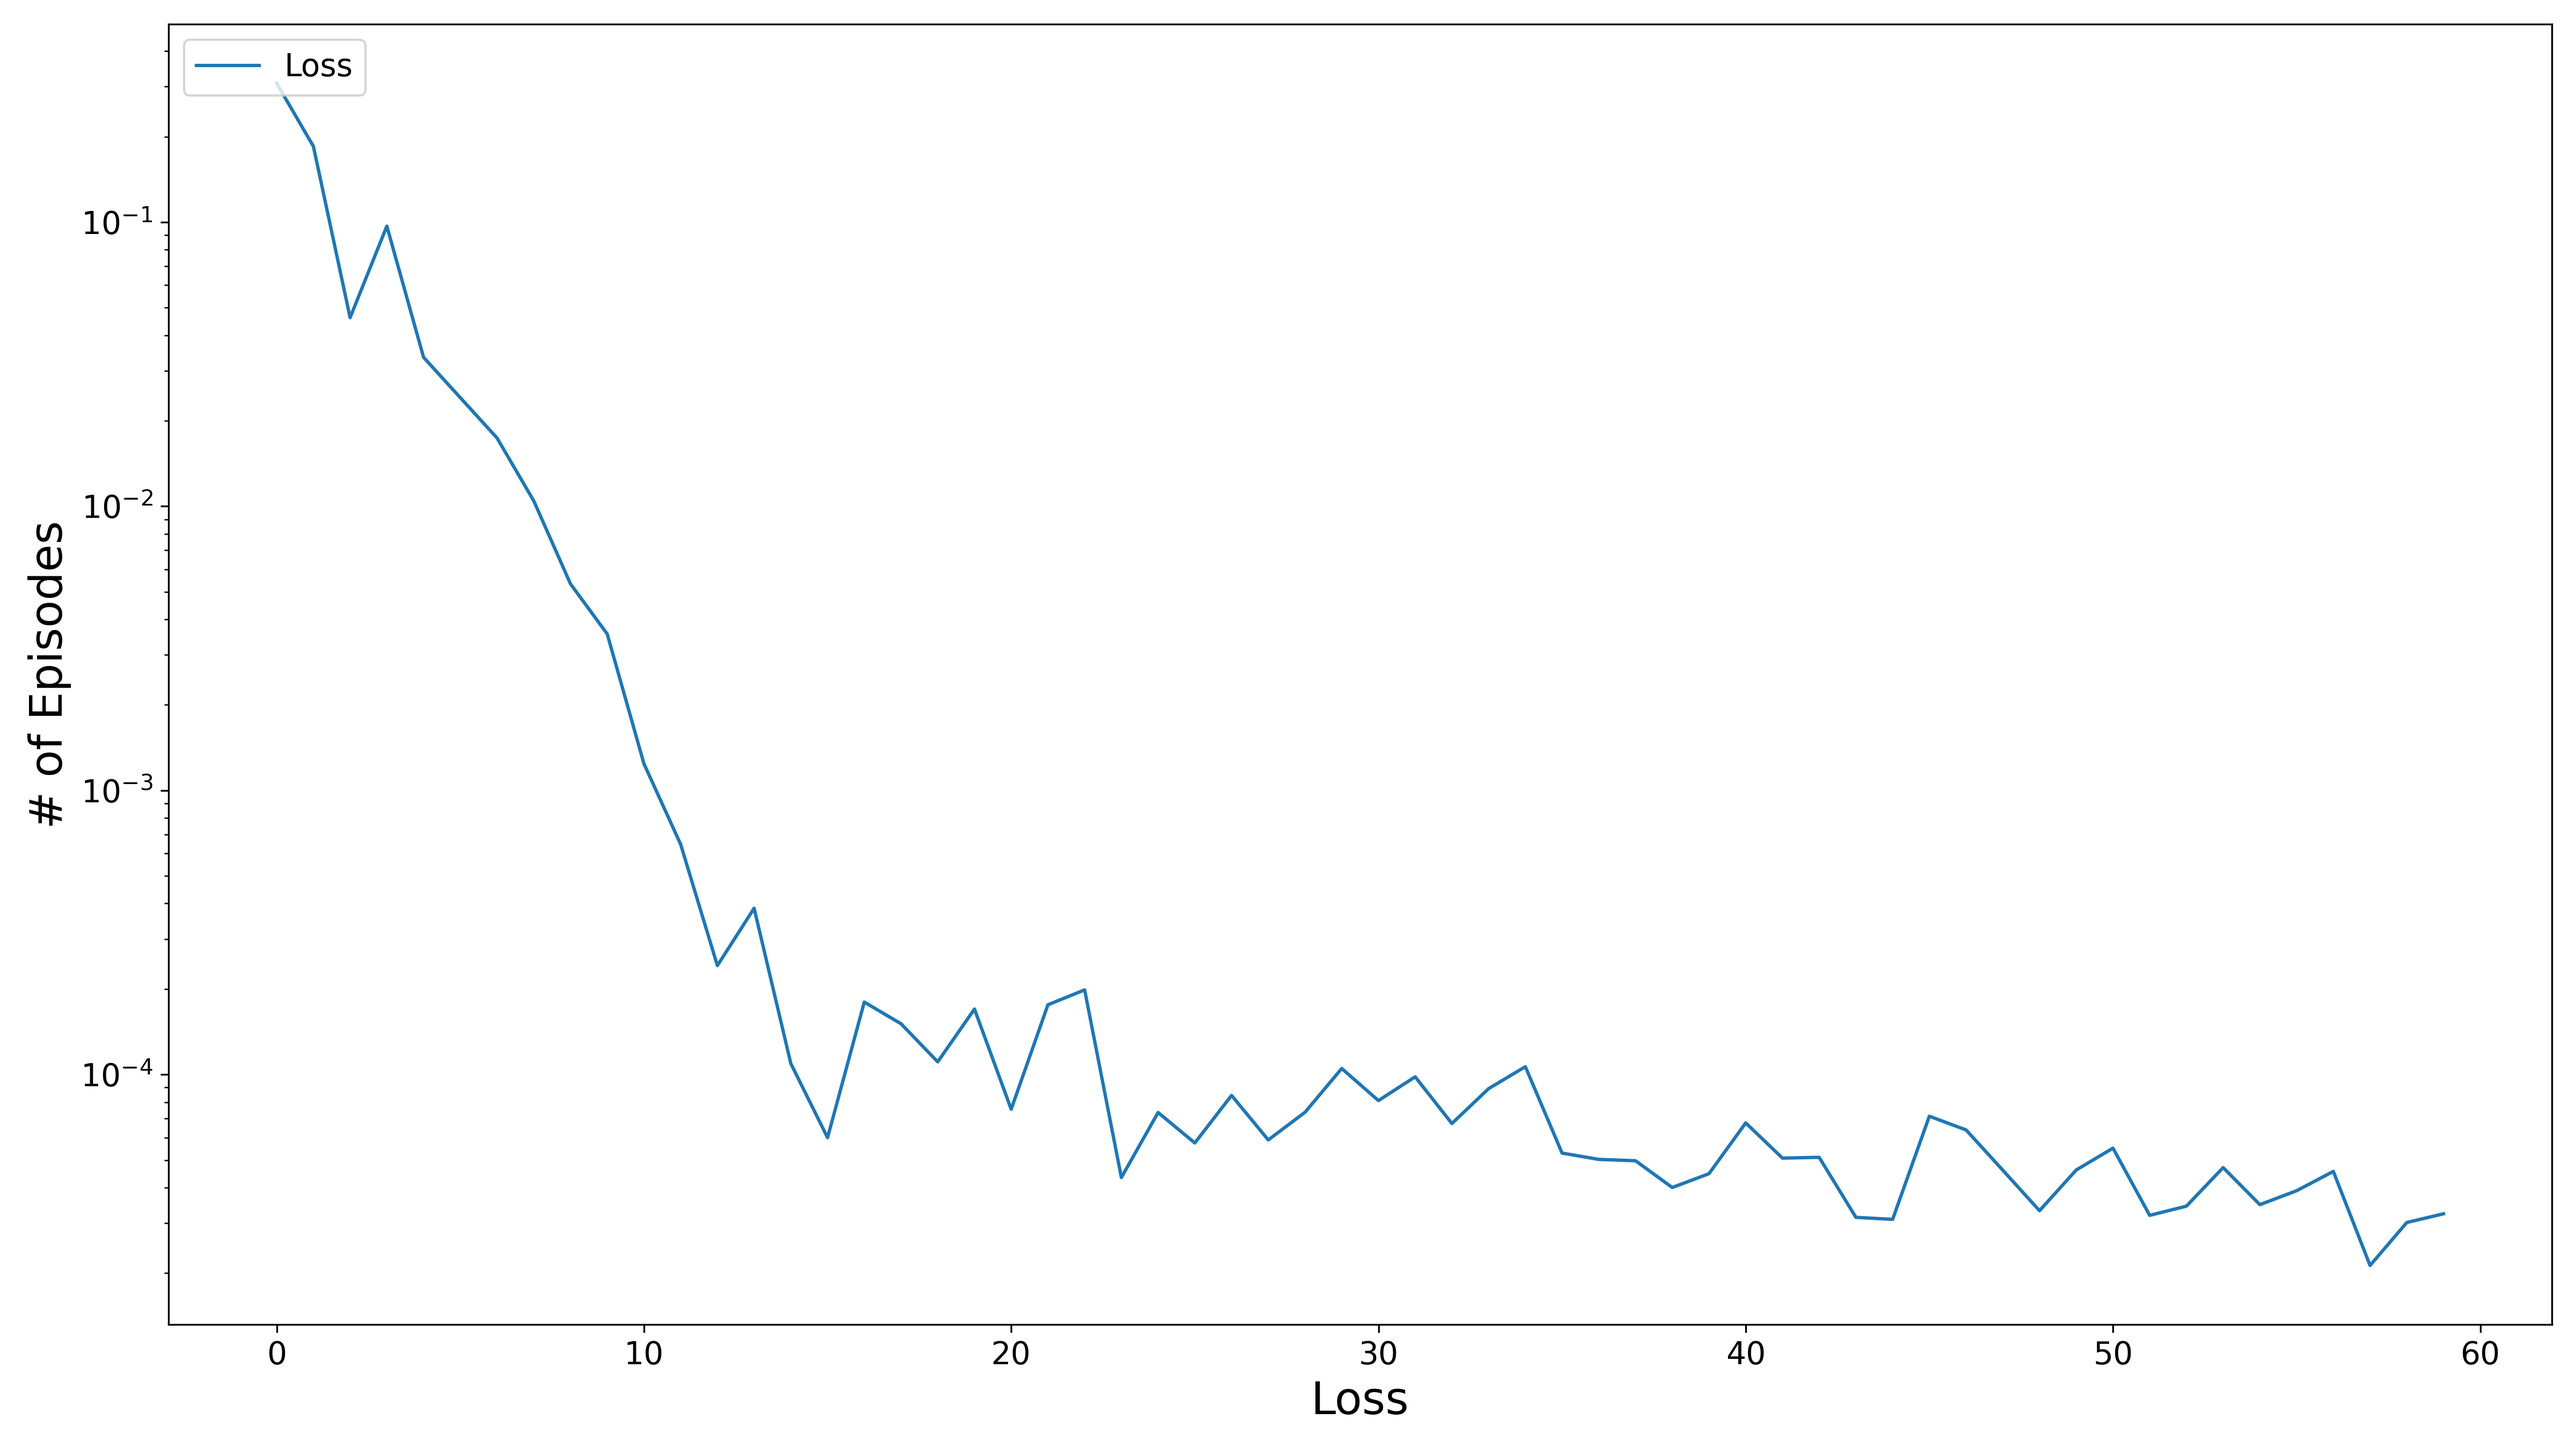
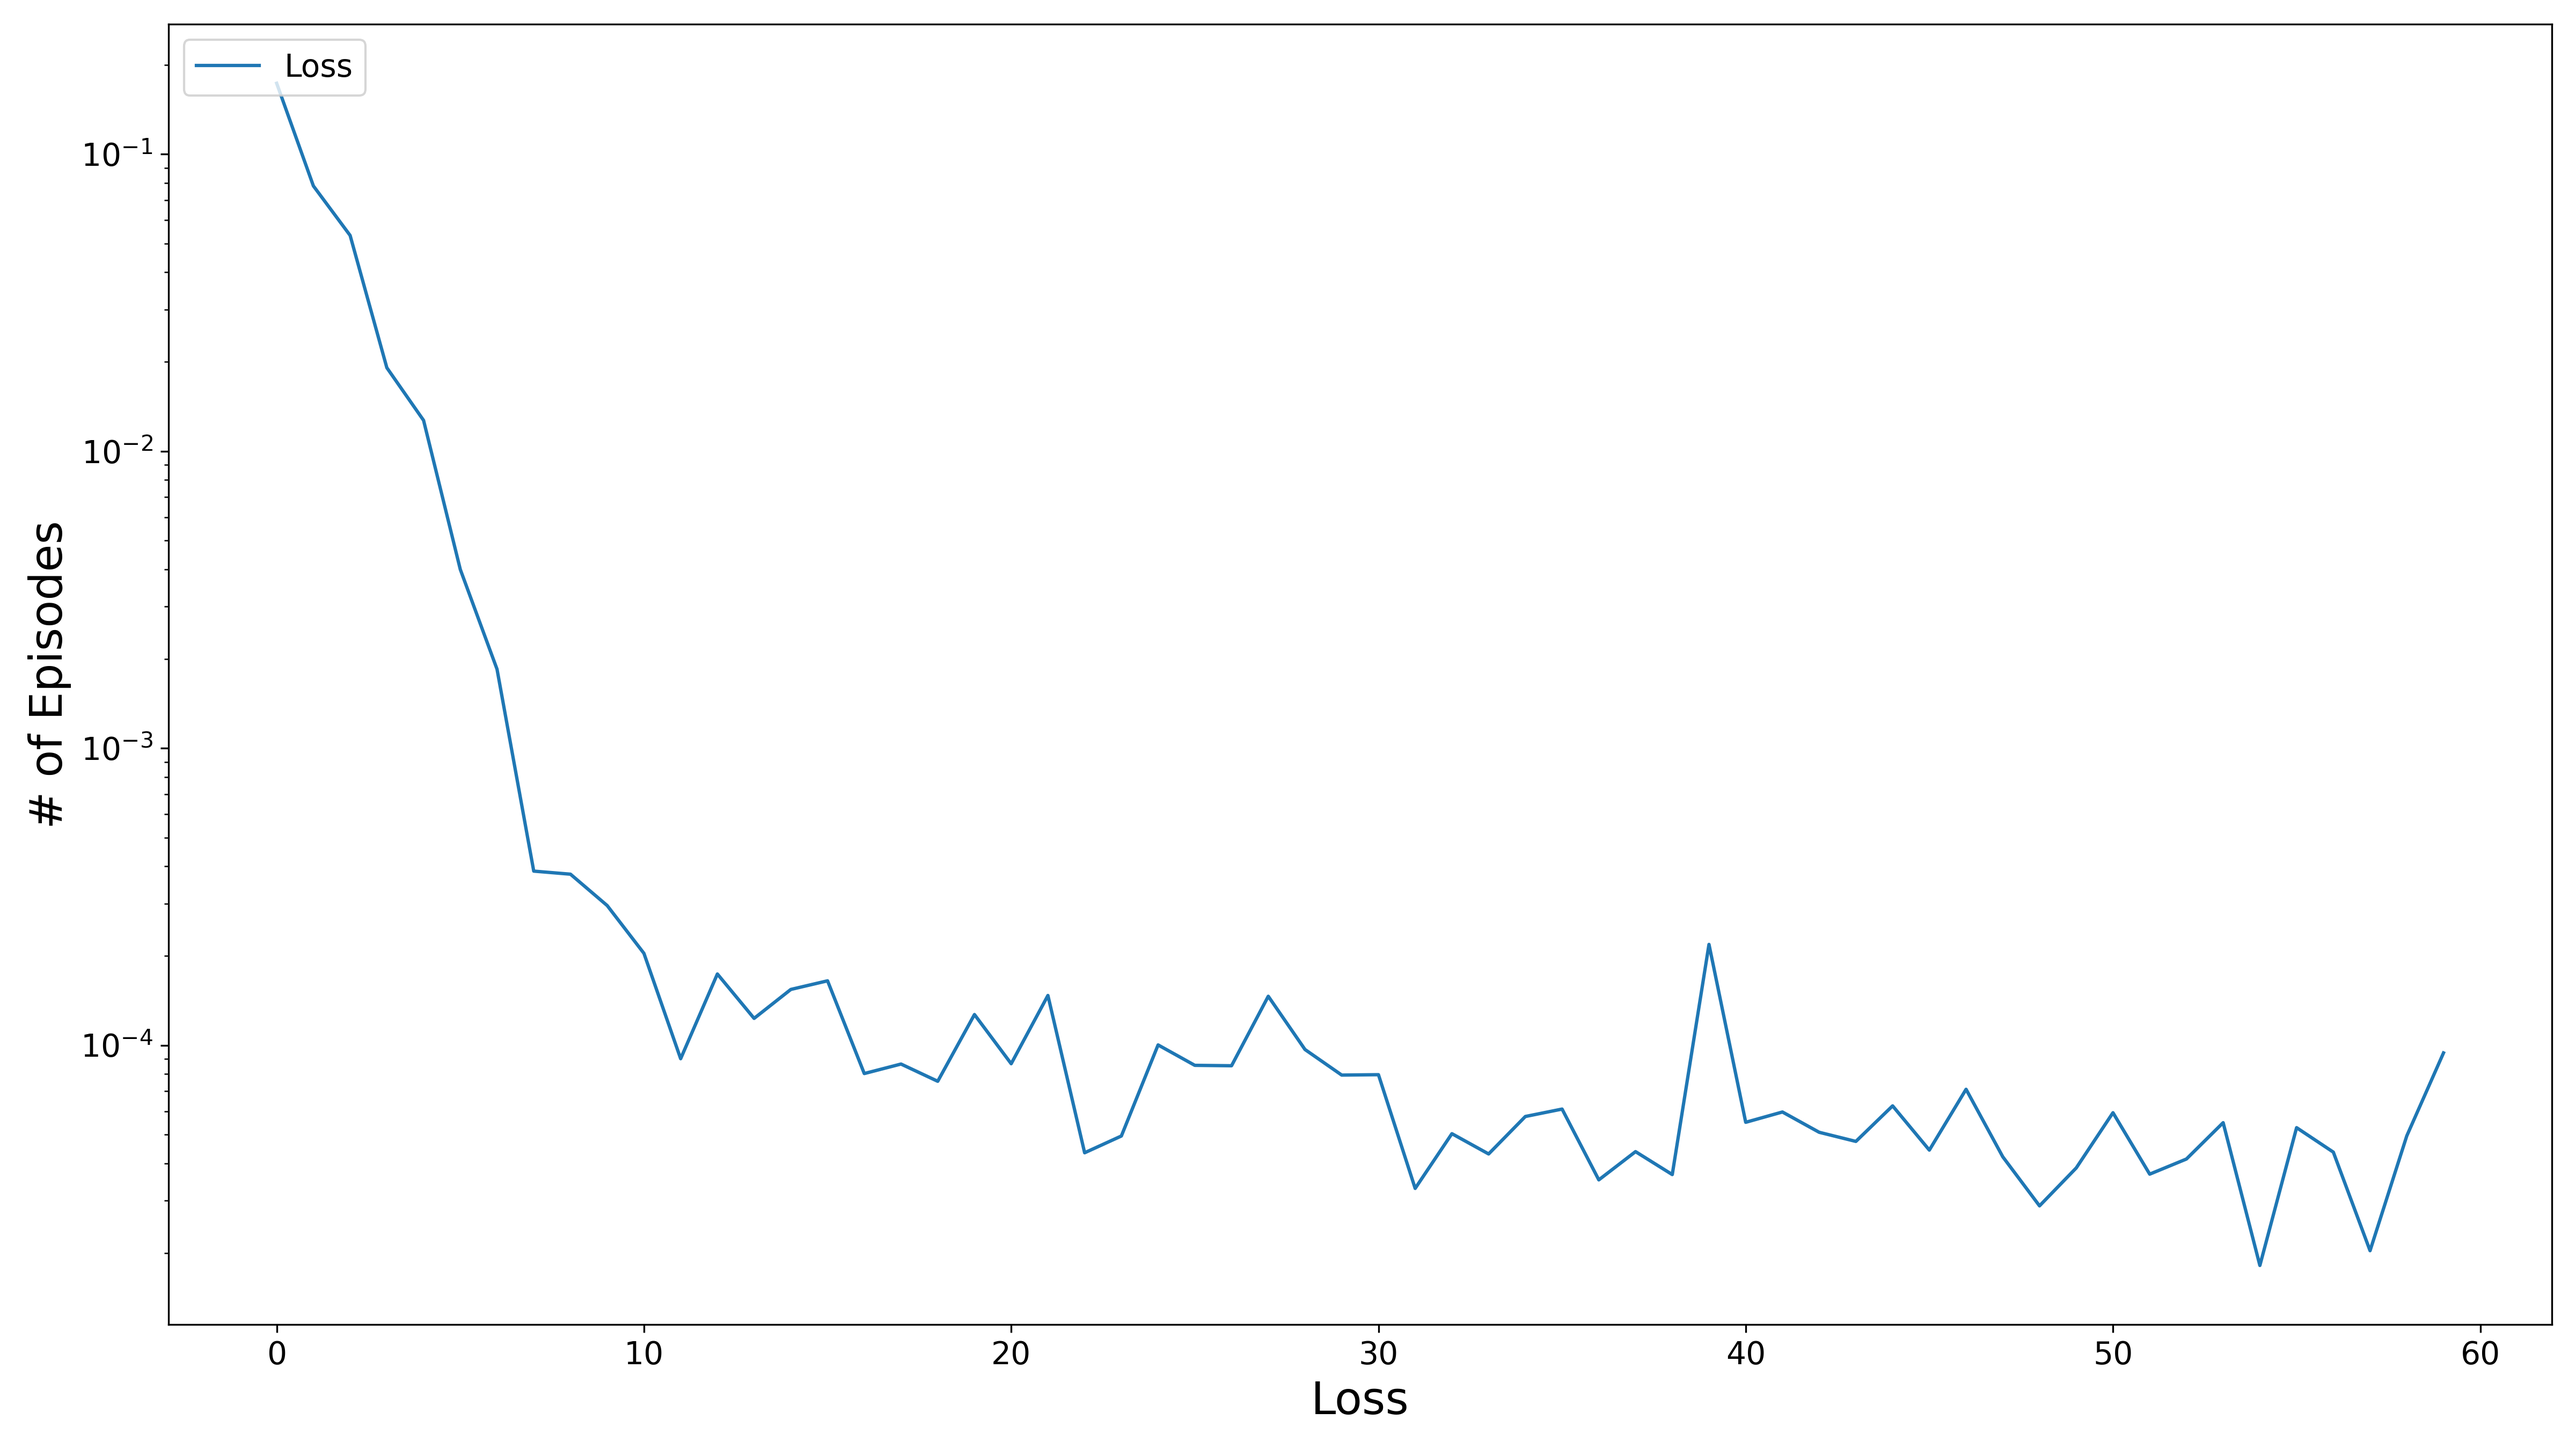
various training results are added, various files are deleted

diff --git a/src/mainMultiProcess.py b/src/mainMultiProcess.py
@@ -11,9 +11,9 @@ import random
 import os
 
 device = torch.device('cuda:'+str(0) if torch.cuda.is_available() else 'cpu')
-torch.manual_seed(50)
-random.seed(50)
-np.random.seed(50)
+torch.manual_seed(0)
+random.seed(0)
+np.random.seed(0)
 
 
 networkSettings = tdqn.networkSettings_(inputLayerSize=117, hiddenLayerSize=512, outputLayerSize=2, dropout=0.2)
@@ -29,7 +29,7 @@ tdqnSettings = tdqn.tdqnSettings_(gamma=0.4,
                                   gradientClipping=1,
                                   targetNetworkUpdate=1000, 
                                   alpha=0.1, 
-                                  numberOfEpisodes = 60, 
+                                  numberOfEpisodes = 60,
                                   rewardClipping = 1
                                   )
 
